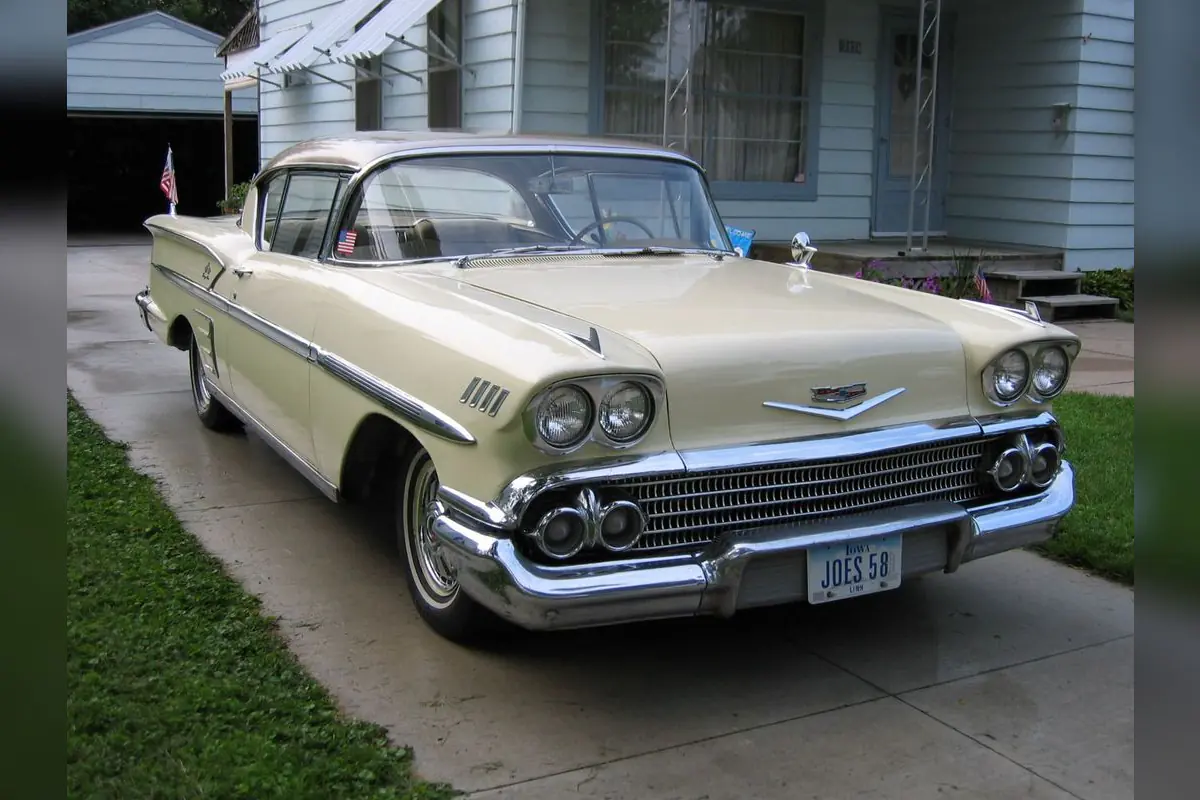
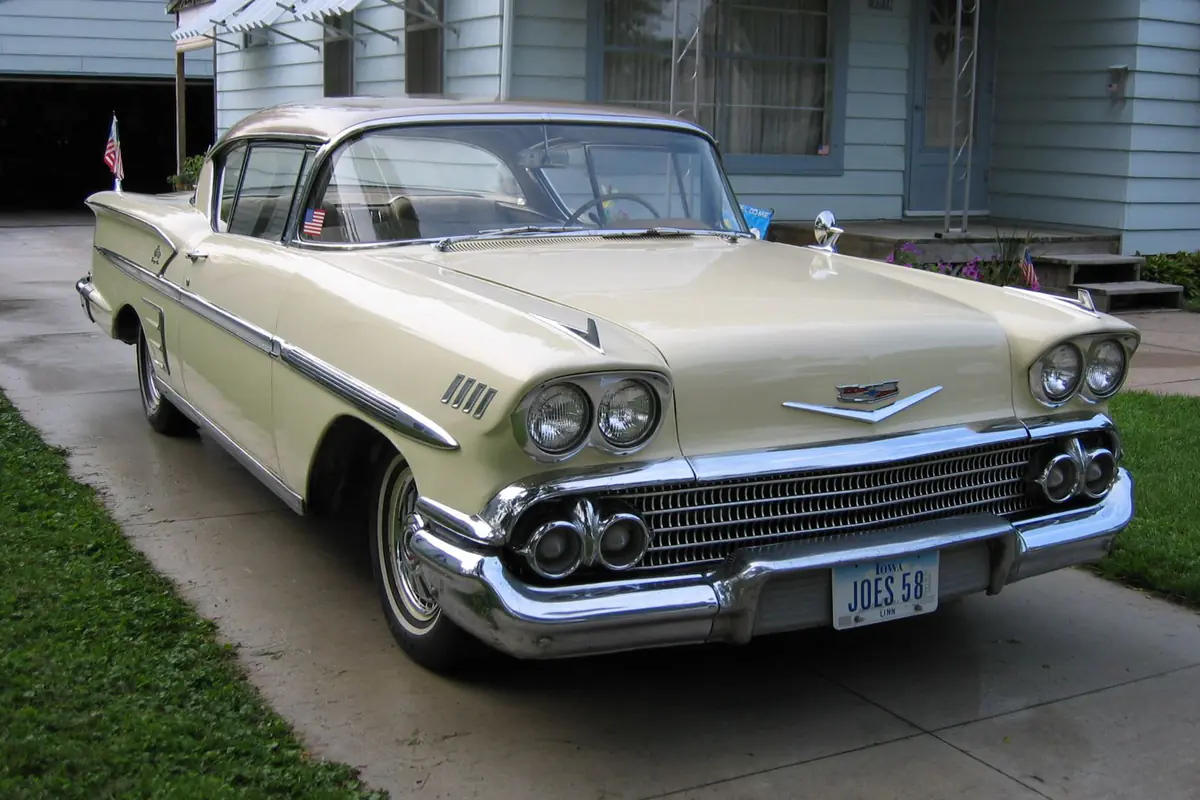
Refresh cropped car and symbol assets

diff --git a/data/eras.js b/data/eras.js
@@ -470,9 +470,9 @@ window.EPIC_CARS_ERAS = [
       {
         "id": "reclFAd217y1bcEdD",
         "name": "Braun SK 4 “Snow White’s Coffin”",
-        "image": "reclFAd217y1bcEdD-attETSLEEouN2c4Ip.webp",
-        "width": 532,
-        "height": 375
+        "image": "reclFAd217y1bcEdD-attv1GmCvsT1ShOoa.webp",
+        "width": 1440,
+        "height": 1017
       },
       {
         "id": "recROO37y1u1jyy3r",
